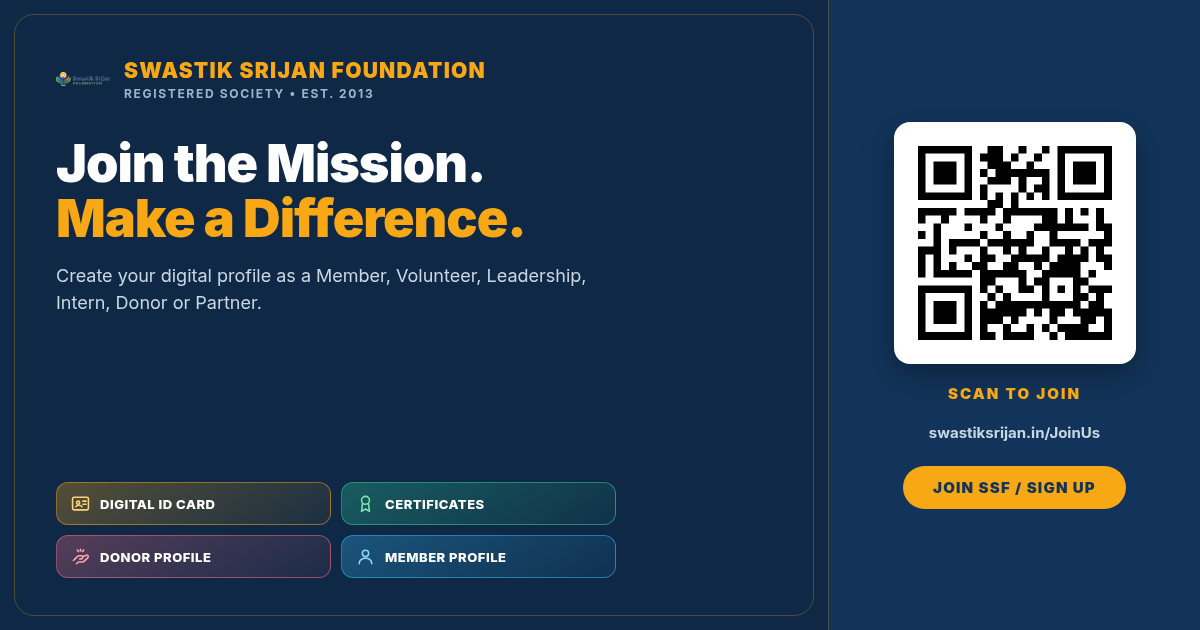
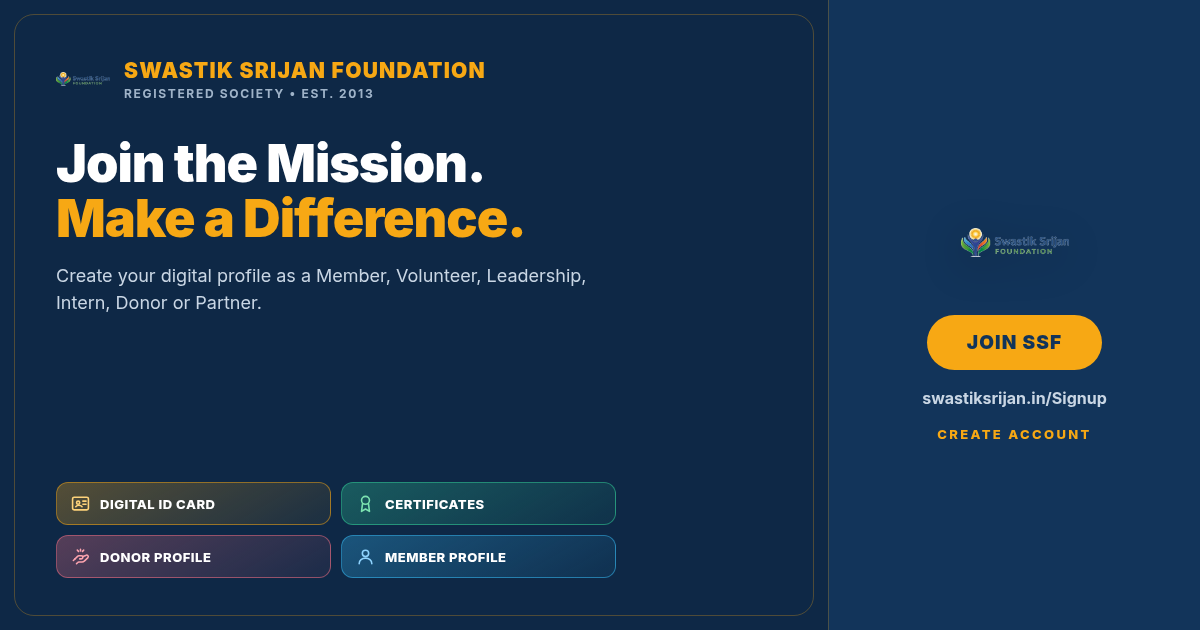
Share opens the Join SSF form directly; drop the QR code
The user asked for the shared link to open the signup form itself ("Full Name,
Email, Mobile, Password, Create Account"), not the home page — and for the QR
to go away, since a scan adds a step nobody wanted.

- Add /Signup (src/routes/Signup.jsx + src/pages/SignupPage.jsx) rendering the
  account form inline via a new `variant="inline"` on AuthModal, so the link
  lands straight on the form with no modal and no extra click.
- SHARE_URL now points at https://swastiksrijan.in/Signup, and the OG tags for
  /Signup and /JoinUs use a QR-free share image.
- Remove the "Scan to Join" QR row from the join card and delete the QR asset.

Changed region(s): [[0.74, 0.181, 0.9558, 0.6937], [0.74, 0.7238, 0.9558, 0.8143]]

diff --git a/src/routeTree.gen.ts b/src/routeTree.gen.ts
@@ -21,6 +21,7 @@ import { Route as TermsAndConditionsRouteImport } from './routes/TermsAndConditi
 import { Route as TeamRouteImport } from './routes/Team'
 import { Route as StoriesRouteImport } from './routes/Stories'
 import { Route as SkillProgramsRouteImport } from './routes/SkillPrograms'
+import { Route as SignupRouteImport } from './routes/Signup'
 import { Route as SSFNationalAcademyRouteImport } from './routes/SSFNationalAcademy'
 import { Route as SSFDigitalOfficeRouteImport } from './routes/SSFDigitalOffice'
 import { Route as RegistrationDetailsRouteImport } from './routes/RegistrationDetails'
@@ -173,6 +174,11 @@ const StoriesRoute = StoriesRouteImport.update({
 const SkillProgramsRoute = SkillProgramsRouteImport.update({
   id: '/SkillPrograms',
   path: '/SkillPrograms',
+  getParentRoute: () => rootRouteImport,
+} as any)
+const SignupRoute = SignupRouteImport.update({
+  id: '/Signup',
+  path: '/Signup',
   getParentRoute: () => rootRouteImport,
 } as any)
 const SSFNationalAcademyRoute = SSFNationalAcademyRouteImport.update({
@@ -687,6 +693,7 @@ export interface FileRoutesByFullPath {
   '/RegistrationDetails': typeof RegistrationDetailsRoute
   '/SSFDigitalOffice': typeof SSFDigitalOfficeRoute
   '/SSFNationalAcademy': typeof SSFNationalAcademyRoute
+  '/Signup': typeof SignupRoute
   '/SkillPrograms': typeof SkillProgramsRoute
   '/Stories': typeof StoriesRoute
   '/Team': typeof TeamRoute
@@ -793,6 +800,7 @@ export interface FileRoutesByTo {
   '/RegistrationDetails': typeof RegistrationDetailsRoute
   '/SSFDigitalOffice': typeof SSFDigitalOfficeRoute
   '/SSFNationalAcademy': typeof SSFNationalAcademyRoute
+  '/Signup': typeof SignupRoute
   '/SkillPrograms': typeof SkillProgramsRoute
   '/Stories': typeof StoriesRoute
   '/Team': typeof TeamRoute
@@ -901,6 +909,7 @@ export interface FileRoutesById {
   '/RegistrationDetails': typeof RegistrationDetailsRoute
   '/SSFDigitalOffice': typeof SSFDigitalOfficeRoute
   '/SSFNationalAcademy': typeof SSFNationalAcademyRoute
+  '/Signup': typeof SignupRoute
   '/SkillPrograms': typeof SkillProgramsRoute
   '/Stories': typeof StoriesRoute
   '/Team': typeof TeamRoute
@@ -1010,6 +1019,7 @@ export interface FileRouteTypes {
     | '/RegistrationDetails'
     | '/SSFDigitalOffice'
     | '/SSFNationalAcademy'
+    | '/Signup'
     | '/SkillPrograms'
     | '/Stories'
     | '/Team'
@@ -1116,6 +1126,7 @@ export interface FileRouteTypes {
     | '/RegistrationDetails'
     | '/SSFDigitalOffice'
     | '/SSFNationalAcademy'
+    | '/Signup'
     | '/SkillPrograms'
     | '/Stories'
     | '/Team'
@@ -1223,6 +1234,7 @@ export interface FileRouteTypes {
     | '/RegistrationDetails'
     | '/SSFDigitalOffice'
     | '/SSFNationalAcademy'
+    | '/Signup'
     | '/SkillPrograms'
     | '/Stories'
     | '/Team'
@@ -1331,6 +1343,7 @@ export interface RootRouteChildren {
   RegistrationDetailsRoute: typeof RegistrationDetailsRoute
   SSFDigitalOfficeRoute: typeof SSFDigitalOfficeRoute
   SSFNationalAcademyRoute: typeof SSFNationalAcademyRoute
+  SignupRoute: typeof SignupRoute
   SkillProgramsRoute: typeof SkillProgramsRoute
   StoriesRoute: typeof StoriesRoute
   TeamRoute: typeof TeamRoute
@@ -1477,6 +1490,13 @@ declare module '@tanstack/react-router' {
       path: '/SkillPrograms'
       fullPath: '/SkillPrograms'
       preLoaderRoute: typeof SkillProgramsRouteImport
+      parentRoute: typeof rootRouteImport
+    }
+    '/Signup': {
+      id: '/Signup'
+      path: '/Signup'
+      fullPath: '/Signup'
+      preLoaderRoute: typeof SignupRouteImport
       parentRoute: typeof rootRouteImport
     }
     '/SSFNationalAcademy': {
@@ -2203,6 +2223,7 @@ const rootRouteChildren: RootRouteChildren = {
   RegistrationDetailsRoute: RegistrationDetailsRoute,
   SSFDigitalOfficeRoute: SSFDigitalOfficeRoute,
   SSFNationalAcademyRoute: SSFNationalAcademyRoute,
+  SignupRoute: SignupRoute,
   SkillProgramsRoute: SkillProgramsRoute,
   StoriesRoute: StoriesRoute,
   TeamRoute: TeamRoute,

diff --git a/src/components/AuthModal.jsx b/src/components/AuthModal.jsx
@@ -10,7 +10,7 @@ const initialSignup = { fullName: "", email: "", phone: "", password: "" };
 const initialLogin = { email: "", password: "" };
 const initialForgot = { email: "" };
 
-export default function AuthModal({ open, onClose, onAuthSuccess, initialMode = "signup", stayOnSuccess = false }) {
+export default function AuthModal({ open, onClose, onAuthSuccess, initialMode = "signup", stayOnSuccess = false, variant = "modal" }) {
     const navigate = useNavigate();
     const [mode, setMode] = useState(initialMode);
     const [signupData, setSignupData] = useState(initialSignup);
@@ -20,12 +20,12 @@ export default function AuthModal({ open, onClose, onAuthSuccess, initialMode = 
     const [message, setMessage] = useState("");
 
     useEffect(() => {
-        if (open) {
+        if (open || variant === "inline") {
             setMode(initialMode);
             setStatus("idle");
             setMessage("");
         }
-    }, [open, initialMode]);
+    }, [open, initialMode, variant]);
 
     useEffect(() => {
         if (import.meta.env.VITE_EMAILJS_PUBLIC_KEY) emailjs.init(import.meta.env.VITE_EMAILJS_PUBLIC_KEY);
@@ -40,7 +40,7 @@ export default function AuthModal({ open, onClose, onAuthSuccess, initialMode = 
         return `https://wa.me/${target}?text=${encodeURIComponent(text)}`;
     }, [mode, signupData, loginData]);
 
-    if (!open) return null;
+    if (variant === "modal" && !open) return null;
 
     const sendEmailNotification = async () => {
         const serviceId = import.meta.env.VITE_EMAILJS_SERVICE_ID;
@@ -108,7 +108,12 @@ export default function AuthModal({ open, onClose, onAuthSuccess, initialMode = 
             setMessage(mode === "signup" ? "Account created successfully. You are now signed in." : "Login successful. Welcome back.");
             if (onAuthSuccess) onAuthSuccess(session);
             onClose?.();
-            if (!stayOnSuccess) navigate({ to: returnTo && returnTo !== "/" ? returnTo : "/UserPortal" });
+            if (!stayOnSuccess) {
+                // The inline variant lives on /Signup itself, so returning to
+                // `returnTo` would just redraw the same form — go to the portal.
+                const target = variant === "inline" ? "/UserPortal" : (returnTo && returnTo !== "/" ? returnTo : "/UserPortal");
+                navigate({ to: target });
+            }
         } catch (error) {
             console.error("Auth error", error);
             setStatus("error");
@@ -118,10 +123,12 @@ export default function AuthModal({ open, onClose, onAuthSuccess, initialMode = 
 
     const showLogin = () => { setMode("login"); setStatus("idle"); setMessage(""); };
 
+    const isModal = variant === "modal";
+
     return (
-        <div className="fixed inset-0 z-[120] bg-black/45 backdrop-blur-sm flex items-center justify-center p-4" role="dialog" aria-modal="true" aria-labelledby="auth-title">
+        <div className={isModal ? "fixed inset-0 z-[120] bg-black/45 backdrop-blur-sm flex items-center justify-center p-4" : "flex justify-center w-full"} role={isModal ? "dialog" : undefined} aria-modal={isModal || undefined} aria-labelledby="auth-title">
             <div className="bg-white w-full max-w-md rounded-3xl shadow-2xl border border-zinc-100 p-6 relative">
-                <button onClick={onClose} className="absolute top-4 right-4 text-zinc-500 hover:text-zinc-900" aria-label="Close auth modal"><FaTimes /></button>
+                {isModal && <button onClick={onClose} className="absolute top-4 right-4 text-zinc-500 hover:text-zinc-900" aria-label="Close auth modal"><FaTimes /></button>}
                 <h3 id="auth-title" className="text-2xl font-bold text-[#12345A] mb-5">{mode === "signup" ? "Join SSF" : mode === "login" ? "Welcome Back" : "Reset Password"}</h3>
 
                 {mode !== "forgot" && <div className="flex gap-2 bg-zinc-100 rounded-xl p-1 mb-5">

diff --git a/src/components/FloatingTicker.jsx b/src/components/FloatingTicker.jsx
@@ -138,10 +138,10 @@ const PROFILE_FEATURES = [
 ];
 
 const SHARE_TEXT = "Join Swastik Srijan Foundation — become a Member, Volunteer, Leadership, Intern, Donor or Partner.";
-/* Points at the join page, not the home page, so tapping the link preview in
-   WhatsApp/Facebook lands on a page that actually has the signup forms. Its OG
-   tags are generated in scripts/generate-share-pages.mjs. */
-const SHARE_URL = "https://swastiksrijan.in/JoinUs";
+/* Opens the signup form itself (see src/routes/Signup.jsx), so tapping the link
+   preview in WhatsApp/Facebook lands on the Create Account form directly
+   instead of the home page. */
+const SHARE_URL = "https://swastiksrijan.in/Signup";
 
 const FloatingTicker = () => {
     const [authMode, setAuthMode] = useState(null);
@@ -274,16 +274,6 @@ const FloatingTicker = () => {
                                     <ShareIcon aria-hidden="true" className="h-3.5 w-3.5" />
                                     {shareState === "done" ? "Shared" : "Share"}
                                 </button>
-                            </div>
-                            {/* The card travels as a PNG, and a raster image cannot carry a
-                                tappable link — so the join URL goes in as a QR code the
-                                recipient can scan from the shared photo itself. */}
-                            <div className="mt-3 flex items-center gap-3 rounded-xl border p-2.5" style={{ borderColor: HAIRLINE }}>
-                                <img src="/images/join-ssf-qr.png" alt="QR code to join Swastik Srijan Foundation" className="h-16 w-16 shrink-0 rounded-lg bg-white p-1" />
-                                <div className="leading-tight">
-                                    <p className="text-[10px] font-black uppercase tracking-[0.12em] text-[#F7A814]">Scan to Join</p>
-                                    <p className="mt-1 text-[10px] font-semibold" style={{ color: "rgba(255,255,255,0.75)" }}>swastiksrijan.in/JoinUs</p>
-                                </div>
                             </div>
                         </div>
                     </Foot>

diff --git a/src/pages/SignupPage.jsx b/src/pages/SignupPage.jsx
@@ -1,0 +1,20 @@
+import AuthModal from "../components/AuthModal";
+
+/* Standalone signup/login page so a shared link can open the account form
+   directly instead of dropping the visitor on the home page. */
+export default function SignupPage() {
+  return (
+    <main className="min-h-screen bg-gradient-to-b from-[#EAF0F6] via-white to-[#EAF0F6] px-4 py-10 md:py-16">
+      <div className="mx-auto max-w-md">
+        <header className="mb-6 text-center">
+          <p className="text-[11px] font-black uppercase tracking-[0.24em] text-[#176447]">Swastik Srijan Foundation</p>
+          <h1 className="mt-3 text-3xl font-black tracking-tight text-[#12345A] md:text-4xl">Join SSF</h1>
+          <p className="mt-3 text-sm leading-relaxed text-slate-600">
+            Create your account to get your digital ID card, certificates and profile as a Member, Volunteer or Donor.
+          </p>
+        </header>
+        <AuthModal open variant="inline" initialMode="signup" />
+      </div>
+    </main>
+  );
+}

diff --git a/src/routes/Signup.jsx b/src/routes/Signup.jsx
@@ -1,0 +1,6 @@
+import { createFileRoute } from "@tanstack/react-router";
+import SignupPage from "../pages/SignupPage";
+
+export const Route = createFileRoute("/Signup")({
+  component: SignupPage,
+});
